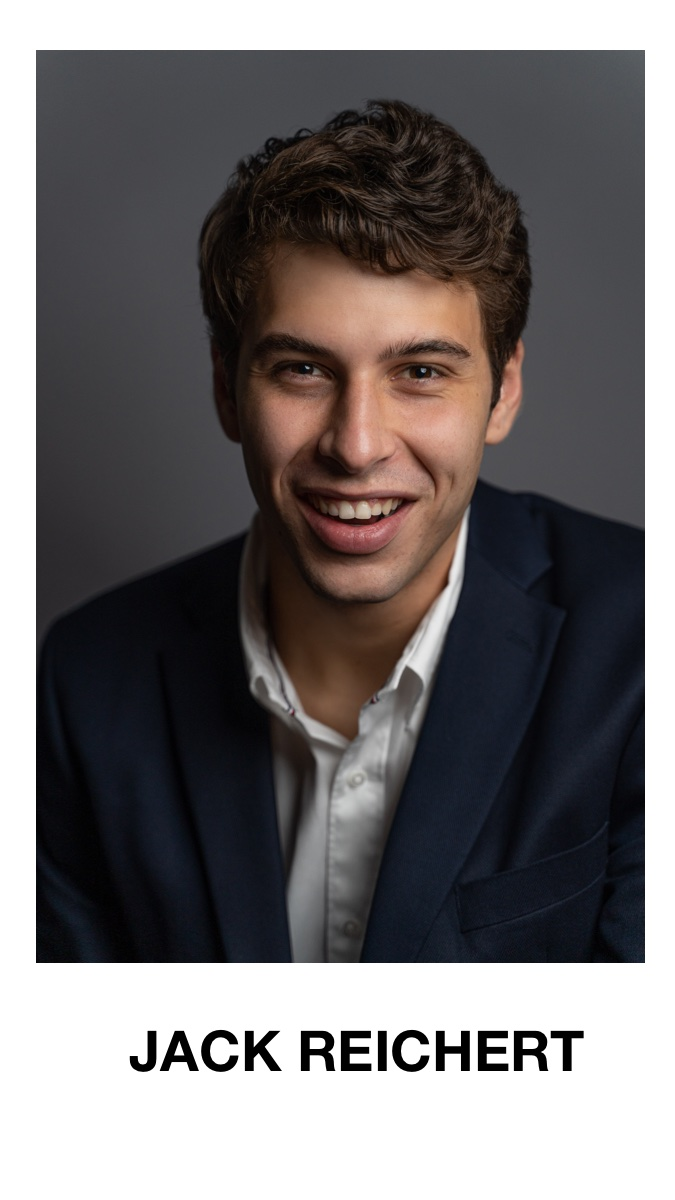
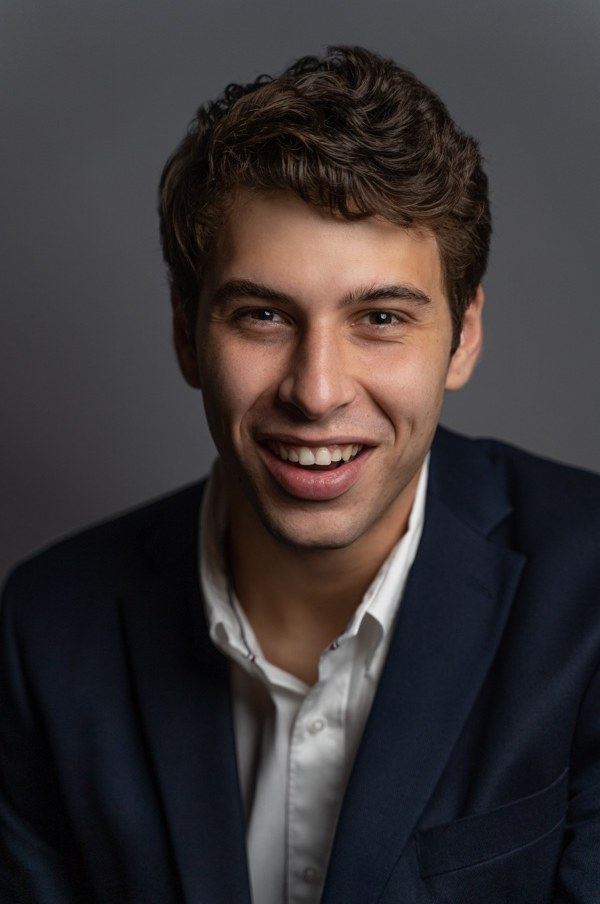
Add files via upload
new updates for pga

diff --git a/index.html b/index.html
@@ -1538,15 +1538,6 @@ footer.pp-footer {
   #brand-case div[style*="grid-template-columns:1fr 1.4fr"] div[style*="font-size:9px;letter-spacing:0.25em"] { font-size: 8px !important; letter-spacing: 0.18em !important; }
   #brand-case canvas { max-height: 260px !important; max-width: 100% !important; }
 
-  /* Good Good Proof Point: 3 boxes in ONE row */
-  #brand-case div[style*="border:1px solid rgba(184,150,62,0.2)"] { padding: 28px 18px !important; }
-  #brand-case div[style*="border:1px solid rgba(184,150,62,0.2)"] > div[style*="grid-template-columns:1fr 1fr;gap:60px"] { display: grid !important; grid-template-columns: 1fr !important; gap: 22px !important; }
-  #brand-case div[style*="border:1px solid rgba(184,150,62,0.2)"] > div[style*="grid-template-columns:1fr 1fr;gap:60px"] > div:nth-child(2) { display: grid !important; grid-template-columns: 1fr 1fr 1fr !important; gap: 6px !important; flex-direction: row !important; }
-  #brand-case div[style*="border:1px solid rgba(184,150,62,0.2)"] > div[style*="grid-template-columns:1fr 1fr;gap:60px"] > div:nth-child(2) > div { padding: 14px 8px !important; }
-  #brand-case div[style*="border:1px solid rgba(184,150,62,0.2)"] > div[style*="grid-template-columns:1fr 1fr;gap:60px"] > div:nth-child(2) > div > div[style*="font-size:36px"] { font-size: 19px !important; }
-  #brand-case div[style*="border:1px solid rgba(184,150,62,0.2)"] > div[style*="grid-template-columns:1fr 1fr;gap:60px"] > div:nth-child(2) > div > div[style*="letter-spacing:0.2em"] { font-size: 7px !important; letter-spacing: 0.04em !important; margin-top: 4px !important; line-height: 1.3 !important; }
-  #brand-case div[style*="border:1px solid rgba(184,150,62,0.2)"] h3 { font-size: 20px !important; margin-bottom: 12px !important; }
-  #brand-case div[style*="border:1px solid rgba(184,150,62,0.2)"] p { font-size: 13.5px !important; line-height: 1.55 !important; }
 
   /* === SCROLL-STUCK PREVENTION ===
      Ensure vertical page scroll always works, even over charts/canvases/carousels.
@@ -2061,9 +2052,9 @@ footer.pp-footer {
         <div class="ep-num">EP 01</div>
         <div>
           <div class="ep-group">The Karens</div>
-          <div class="ep-title">The Manny</div>
+          <div class="ep-title">Horse Girl</div>
           <div class="ep-meta"><span>Ext. Hole 7, Day</span><span>Runtime 0:45</span><span>Script Locked</span></div>
-          <div class="ep-summary">The Karens discuss their problems with their Au Pairs, and decide what they really deserve is a handsome man nanny to spice up their lives.</div>
+          <div class="ep-summary">The Karens discuss the thrill of doing ketamine therapy with their horses and how it can spice up their lives and their golf game.</div>
         </div>
         <div><span class="ep-pill done">Script Complete</span></div>
       </div>
@@ -2085,7 +2076,7 @@ footer.pp-footer {
           <div class="ep-group">The Chads</div>
           <div class="ep-title">Pilk</div>
           <div class="ep-meta"><span>Ext. Cart Path, Midday</span><span>Runtime 0:50</span><span>Script Locked</span></div>
-          <div class="ep-summary">The Chads discuss their favorite things until one Chad evangelizes his new obsession: Pilk, a Pepsi and milk mixture aged in a plastic bottle left in the sun.</div>
+          <div class="ep-summary">The Chads have invented a new protein-packed sports drink: Pilk, a Pepsi and milk mixture aged in a plastic bottle left in the sun. Everyone has to give it a try.</div>
         </div>
         <div><span class="ep-pill done">Script Complete</span></div>
       </div>
@@ -2096,7 +2087,7 @@ footer.pp-footer {
           <div class="ep-group">The Passenger Princesses</div>
           <div class="ep-title">Ozempic</div>
           <div class="ep-meta"><span>Ext. Back Nine, Golden Hour</span><span>Runtime 0:55</span><span>Script Locked</span></div>
-          <div class="ep-summary">The Passenger Princesses condemn the use of GLP-1s while systematically body-shaming every celebrity they can think of. A mysterious smell surfaces on the back nine. They blame the caddy. The camera reveals otherwise.</div>
+          <div class="ep-summary">The Passenger Princesses bemoan that &ldquo;normal people&rdquo; are taking away their skinny valor by using GLP-1s. Now they are forced to participate in extreme beauty fads with unfortunate side effects they can&rsquo;t own up to.</div>
         </div>
         <div><span class="ep-pill done">Script Complete</span></div>
       </div>
@@ -2162,11 +2153,11 @@ footer.pp-footer {
         <div class="cast-pillar-list">
           <div class="cast-pillar-list-label">Shortlist</div>
           <ul class="cast-names">
-            <li><a href="https://www.instagram.com/brysondechambeau/" target="_blank" rel="noopener"><span class="cname">Bryson DeChambeau</span><span class="handle">@brysondechambeau</span></a></li>
+            <li><a href="https://www.instagram.com/minwoo27lee/" target="_blank" rel="noopener"><span class="cname">Min Woo Lee</span><span class="handle">@minwoo27lee</span></a></li>
             <li><a href="https://www.instagram.com/rorymcilroy/" target="_blank" rel="noopener"><span class="cname">Rory McIlroy</span><span class="handle">@rorymcilroy</span></a></li>
             <li><a href="https://www.instagram.com/rickiefowler/" target="_blank" rel="noopener"><span class="cname">Rickie Fowler</span><span class="handle">@rickiefowler</span></a></li>
             <li><a href="https://www.instagram.com/justinthomas34/" target="_blank" rel="noopener"><span class="cname">Justin Thomas</span><span class="handle">@justinthomas34</span></a></li>
-            <li><a href="https://www.instagram.com/philmickelson/" target="_blank" rel="noopener"><span class="cname">Phil Mickelson</span><span class="handle">@philmickelson</span></a></li>
+            <li><a href="https://www.instagram.com/scottie.scheffler/" target="_blank" rel="noopener"><span class="cname">Scottie Scheffler</span><span class="handle">@scottie.scheffler</span></a></li>
             <li><a href="https://www.instagram.com/_paige.renee/" target="_blank" rel="noopener"><span class="cname">Paige Spiranac</span><span class="handle">@_paige.renee</span></a></li>
           </ul>
         </div>
@@ -2197,7 +2188,7 @@ footer.pp-footer {
       </div>
       <div style="background:var(--dark);padding:48px 36px;">
         <div style="font-family:'Playfair Display',serif;font-size:52px;font-weight:900;color:var(--gold-light);line-height:1;">800M+</div>
-        <div style="font-family:'DM Mono',monospace;font-size:9px;letter-spacing:0.2em;text-transform:uppercase;color:rgba(245,240,232,0.45);margin-top:10px;">Global golf viewership (PGA + LIV)</div>
+        <div style="font-family:'DM Mono',monospace;font-size:9px;letter-spacing:0.2em;text-transform:uppercase;color:rgba(245,240,232,0.45);margin-top:10px;">Global golf viewership</div>
         <div style="font-size:13px;color:rgba(245,240,232,0.5);margin-top:8px;font-style:italic;">And rising year over year.</div>
       </div>
       <div style="background:var(--dark);padding:48px 36px;">
@@ -2279,32 +2270,6 @@ footer.pp-footer {
       </div>
     </div>
 
-    <!-- GOOD GOOD PROOF POINT -->
-    <div class="reveal" style="background:rgba(184,150,62,0.08);border:1px solid rgba(184,150,62,0.2);padding:52px 48px;margin-top:2px;">
-      <div style="display:grid;grid-template-columns:1fr 1fr;gap:60px;align-items:center;">
-        <div>
-          <div style="font-family:'DM Mono',monospace;font-size:9px;letter-spacing:0.3em;text-transform:uppercase;color:var(--gold);margin-bottom:16px;">The Proof of Concept</div>
-          <h3 style="font-family:'Playfair Display',serif;font-size:32px;font-weight:700;color:var(--cream);margin-bottom:20px;">Good Good Golf Proved the Model.</h3>
-          <p style="font-size:17px;line-height:1.8;color:rgba(245,240,232,0.75);">Good Good started as a YouTube golf channel in 2020. By 2025 they had raised $45 million led by Peyton Manning's Omaha Productions and are now title-sponsoring a PGA Tour event, a deal worth an estimated $12-15 million. What they proved: digital-first golf content is a serious business, not a hobby.</p>
-          <p style="font-size:17px;line-height:1.8;color:rgba(245,240,232,0.75);margin-top:16px;">Pebble Pines operates in a lane Good Good does not touch. They are sports performance and community. We are satire and character. The audience overlaps. The competition does not.</p>
-        </div>
-        <div style="display:flex;flex-direction:column;gap:20px;">
-          <div style="background:rgba(245,240,232,0.05);padding:28px 32px;border-left:3px solid var(--gold);">
-            <div style="font-family:'Playfair Display',serif;font-size:36px;font-weight:900;color:var(--gold-light);">$45M</div>
-            <div style="font-family:'DM Mono',monospace;font-size:9px;letter-spacing:0.2em;text-transform:uppercase;color:rgba(245,240,232,0.5);margin-top:6px;">Funding raised by Good Good Golf (2025)</div>
-          </div>
-          <div style="background:rgba(245,240,232,0.05);padding:28px 32px;border-left:3px solid var(--gold);">
-            <div style="font-family:'Playfair Display',serif;font-size:36px;font-weight:900;color:var(--gold-light);">1.75M+</div>
-            <div style="font-family:'DM Mono',monospace;font-size:9px;letter-spacing:0.2em;text-transform:uppercase;color:rgba(245,240,232,0.5);margin-top:6px;">YouTube subscribers across their channels</div>
-          </div>
-          <div style="background:rgba(245,240,232,0.05);padding:28px 32px;border-left:3px solid var(--gold);">
-            <div style="font-family:'Playfair Display',serif;font-size:36px;font-weight:900;color:var(--gold-light);">$12-15M</div>
-            <div style="font-family:'DM Mono',monospace;font-size:9px;letter-spacing:0.2em;text-transform:uppercase;color:rgba(245,240,232,0.5);margin-top:6px;">Est. value of PGA Tour title sponsorship deal</div>
-          </div>
-        </div>
-      </div>
-    </div>
-
     <!-- BIBLIOGRAPHY · BUSINESS CASE -->
     <div class="reveal sources-block" data-carousel="sources" style="margin-top:64px;padding:40px 48px;border-top:1px solid rgba(245,240,232,0.12);">
       <div style="font-family:'DM Mono',monospace;font-size:9px;letter-spacing:0.3em;text-transform:uppercase;color:var(--gold);margin-bottom:20px;">Sources</div>
@@ -2315,8 +2280,6 @@ footer.pp-footer {
         <div><a href="https://www.emarketer.com/" target="_blank" rel="noopener noreferrer" class="source-link">04 · EMARKETER, <em>Creator Economy Revenue Mix 2026</em>. <span style="color:var(--gold-light);text-decoration:none;">emarketer.com</span></a></div>
         <div><a href="https://digiday.com/" target="_blank" rel="noopener noreferrer" class="source-link">05 · Digiday / Tubular Labs, <em>Creator vs. League Engagement Benchmarks 2024</em>. <span style="color:var(--gold-light);text-decoration:none;">digiday.com</span></a></div>
         <div><a href="https://www.sportspromedia.com/" target="_blank" rel="noopener noreferrer" class="source-link">06 · SportsPro / IEG, <em>Golf Sponsorship Market Sizing 2025</em>. <span style="color:var(--gold-light);text-decoration:none;">sportspromedia.com</span></a></div>
-        <div><a href="https://www.sportsbusinessjournal.com/" target="_blank" rel="noopener noreferrer" class="source-link">07 · Sports Business Journal, <em>Good Good Golf Funding Round</em>, July 2025. <span style="color:var(--gold-light);text-decoration:none;">sportsbusinessjournal.com</span></a></div>
-        <div><a href="https://golfweek.usatoday.com/" target="_blank" rel="noopener noreferrer" class="source-link">08 · Golfweek, <em>Good Good × Omaha Productions PGA Tour Title Sponsorship</em>, 2025. <span style="color:var(--gold-light);text-decoration:none;">golfweek.usatoday.com</span></a></div>
       </div>
       <button class="carousel-arrow carousel-prev sources-arrow" data-dir="prev" aria-label="Previous source"><svg viewBox="0 0 10 14" xmlns="http://www.w3.org/2000/svg" aria-hidden="true"><polyline points="7.5,2 2.5,7 7.5,12"/></svg></button>
       <button class="carousel-arrow carousel-next sources-arrow" data-dir="next" aria-label="Next source"><svg viewBox="0 0 10 14" xmlns="http://www.w3.org/2000/svg" aria-hidden="true"><polyline points="2.5,2 7.5,7 2.5,12"/></svg></button>
@@ -2417,7 +2380,7 @@ new Chart(eCtx, {
         borderRadius: 2,
       },
       {
-        label: 'Good Good Golf (Creator)',
+        label: 'Leading Golf Creator Channel',
         data: [545, 717],
         backgroundColor: '#B8963E',
         borderColor: '#B8963E',
@@ -2503,17 +2466,9 @@ new Chart(eCtx, {
         <div class="brand-name" style="margin-bottom:0;">Puma / Rickie Fowler</div>
       </div><div class="brand-int">Caddy fits as contrast to the Boomers' old-money wardrobes. Style credibility.</div></div>
         <div class="brand-card"><div style="display:flex;align-items:center;gap:12px;margin-bottom:10px;">
-        <img src="https://logo.clearbit.com/goodgoodgolf.com" style="width:28px;height:28px;object-fit:contain;border-radius:4px;" onerror="this.style.display='none'">
-        <div class="brand-name" style="margin-bottom:0;">Good Good</div>
-      </div><div class="brand-int">Golf's most culturally fluent brand. Cross-promo and collab potential.</div></div>
-        <div class="brand-card"><div style="display:flex;align-items:center;gap:12px;margin-bottom:10px;">
         <img src="https://logo.clearbit.com/barstoolsports.com" style="width:28px;height:28px;object-fit:contain;border-radius:4px;" onerror="this.style.display='none'">
         <div class="brand-name" style="margin-bottom:0;">Barstool: Foreplay</div>
       </div><div class="brand-int">Distribution and audience crossover. Clip licensing or co-produced episodes.</div></div>
-        <div class="brand-card"><div style="display:flex;align-items:center;gap:12px;margin-bottom:10px;">
-        <img src="https://logo.clearbit.com/livgolf.com" style="width:28px;height:28px;object-fit:contain;border-radius:4px;" onerror="this.style.display='none'">
-        <div class="brand-name" style="margin-bottom:0;">LIV Golf</div>
-      </div><div class="brand-int">Bigger purses, louder personalities, hungry for cultural relevance. A natural co-conspirator for satire that lives where the game is loudest.</div></div>
       </div>
     </div>
     <div class="reveal">
@@ -2572,18 +2527,19 @@ new Chart(eCtx, {
   <div class="container">
     <div class="reveal">
       <div style="font-family:'DM Mono',monospace;font-size:9px;letter-spacing:0.35em;text-transform:uppercase;color:var(--gold);margin-bottom:16px;">Who's Making It</div>
-      <h2 style="font-family:'Playfair Display',serif;font-size:clamp(36px,4vw,56px);font-weight:700;line-height:1.1;margin-bottom:80px;color:var(--dark);">Who We Are</h2>
+      <h2 style="font-family:'Playfair Display',serif;font-size:clamp(36px,4vw,56px);font-weight:700;line-height:1.1;margin-bottom:48px;color:var(--dark);">Who We Are</h2>
     </div>
+    <div class="reveal team-group-label" style="font-family:'DM Mono',monospace;font-size:10px;letter-spacing:0.3em;text-transform:uppercase;color:var(--gold);margin:0 0 24px;padding-bottom:12px;border-bottom:1px solid var(--rule);">Producers</div>
     <div class="reveal" style="display:grid;grid-template-columns:repeat(4,1fr);gap:32px;">
 
       <div style="display:flex;flex-direction:column;">
         <div style="width:100%;aspect-ratio:1/1;border:1px solid var(--rule);overflow:hidden;">
-          <img src="images/jacob.jpg" alt="Jacob Wahba" style="width:100%;height:100%;object-fit:cover;object-position:center 12%;">
+          <img src="images/jacob.jpg" alt="Jacob Wahba" style="width:100%;height:100%;object-fit:cover;object-position:center 0%;">
         </div>
         <div style="padding:24px 0 0;">
           <div style="font-family:'Playfair Display',serif;font-size:22px;font-weight:700;color:var(--dark);margin-bottom:4px;">Jacob Wahba</div>
-          <div style="font-family:'DM Mono',monospace;font-size:9px;letter-spacing:0.2em;text-transform:uppercase;color:var(--gold);">Director · Producer</div>
-          <div style="font-size:13px;line-height:1.6;color:var(--muted);margin-top:14px;padding-top:14px;border-top:1px solid var(--rule);">NYC-based director and producer. Credits: Dior, Nike, Brooks Brothers, GEICO, <em>Only Murders in the Building</em>, Broadway.</div>
+          <div style="font-family:'DM Mono',monospace;font-size:9px;letter-spacing:0.2em;text-transform:uppercase;color:var(--gold);">Co-Creator · Director · Producer</div>
+          <div style="font-size:13px;line-height:1.6;color:var(--muted);margin-top:14px;padding-top:14px;border-top:1px solid var(--rule);">NYC-based director and producer working across commercials, television, and stage. Credits include campaigns for Dior, Nike, Brooks Brothers, and GEICO, plus <em>Only Murders in the Building</em> and Broadway.</div>
         </div>
       </div>
 
@@ -2593,19 +2549,43 @@ new Chart(eCtx, {
         </div>
         <div style="padding:24px 0 0;">
           <div style="font-family:'Playfair Display',serif;font-size:22px;font-weight:700;color:var(--dark);margin-bottom:4px;">Frankie Seratch</div>
-          <div style="font-family:'DM Mono',monospace;font-size:9px;letter-spacing:0.2em;text-transform:uppercase;color:var(--gold);">Producer · Creator</div>
-          <div style="font-size:13px;line-height:1.6;color:var(--muted);margin-top:14px;padding-top:14px;border-top:1px solid var(--rule);">Producer and creator. Multi-hyphenate. Tribeca feature, 2026.</div>
+          <div style="font-family:'DM Mono',monospace;font-size:9px;letter-spacing:0.2em;text-transform:uppercase;color:var(--gold);">Co-Creator · Producer</div>
+          <div style="font-size:13px;line-height:1.6;color:var(--muted);margin-top:14px;padding-top:14px;border-top:1px solid var(--rule);">New York-based producer and actor. Co-founder of IP Bay, bringing Japanese IP to Western film and television. Lead in <em>Recluse</em> (dir. Henry Chaisson), world premiere at Tribeca Film Festival 2026.</div>
         </div>
       </div>
 
       <div style="display:flex;flex-direction:column;">
         <div style="width:100%;aspect-ratio:1/1;border:1px solid var(--rule);overflow:hidden;">
-          <img src="images/jack.jpg" alt="Jack Reichert" style="width:100%;height:100%;object-fit:cover;object-position:center 20%;">
+          <img src="images/sidney.jpg" alt="Sidney Chen" style="width:100%;height:100%;object-fit:cover;object-position:center 15%;">
+        </div>
+        <div style="padding:24px 0 0;">
+          <div style="font-family:'Playfair Display',serif;font-size:22px;font-weight:700;color:var(--dark);margin-bottom:4px;">Sidney Chen</div>
+          <div style="font-family:'DM Mono',monospace;font-size:9px;letter-spacing:0.2em;text-transform:uppercase;color:var(--gold);">Producer</div>
+        </div>
+      </div>
+
+      <div style="display:flex;flex-direction:column;">
+        <div style="width:100%;aspect-ratio:1/1;border:1px solid var(--rule);overflow:hidden;">
+          <img src="images/rosie.jpg" alt="Rosie McDonald" style="width:100%;height:100%;object-fit:cover;object-position:center 20%;">
+        </div>
+        <div style="padding:24px 0 0;">
+          <div style="font-family:'Playfair Display',serif;font-size:22px;font-weight:700;color:var(--dark);margin-bottom:4px;">Rosie McDonald</div>
+          <div style="font-family:'DM Mono',monospace;font-size:9px;letter-spacing:0.2em;text-transform:uppercase;color:var(--gold);">Producer · Writer · Actor</div>
+        </div>
+      </div>
+
+    </div>
+    <div class="reveal team-group-label" style="font-family:'DM Mono',monospace;font-size:10px;letter-spacing:0.3em;text-transform:uppercase;color:var(--gold);margin:64px 0 24px;padding-bottom:12px;border-bottom:1px solid var(--rule);">Writers Room</div>
+    <div class="reveal" style="display:grid;grid-template-columns:repeat(4,1fr);gap:32px;">
+
+      <div style="display:flex;flex-direction:column;">
+        <div style="width:100%;aspect-ratio:1/1;border:1px solid var(--rule);overflow:hidden;">
+          <img src="images/jack.jpg" alt="Jack Reichert" style="width:100%;height:100%;object-fit:cover;object-position:center 30%;">
         </div>
         <div style="padding:24px 0 0;">
           <div style="font-family:'Playfair Display',serif;font-size:22px;font-weight:700;color:var(--dark);margin-bottom:4px;">Jack Reichert</div>
-          <div style="font-family:'DM Mono',monospace;font-size:9px;letter-spacing:0.2em;text-transform:uppercase;color:var(--gold);">Comedian · Writer</div>
-          <div style="font-size:13px;line-height:1.6;color:var(--muted);margin-top:14px;padding-top:14px;border-top:1px solid var(--rule);">Comedian. Short-form writer and performer.</div>
+          <div style="font-family:'DM Mono',monospace;font-size:9px;letter-spacing:0.2em;text-transform:uppercase;color:var(--gold);">Writer</div>
+          <div style="font-size:13px;line-height:1.6;color:var(--muted);margin-top:14px;padding-top:14px;border-top:1px solid var(--rule);">Comedian, short-form writer, and performer.</div>
         </div>
       </div>
 
@@ -2615,8 +2595,30 @@ new Chart(eCtx, {
         </div>
         <div style="padding:24px 0 0;">
           <div style="font-family:'Playfair Display',serif;font-size:22px;font-weight:700;color:var(--dark);margin-bottom:4px;">Evan Frolov</div>
-          <div style="font-family:'DM Mono',monospace;font-size:9px;letter-spacing:0.2em;text-transform:uppercase;color:var(--gold);">Cinematographer · Creator</div>
-          <div style="font-size:13px;line-height:1.6;color:var(--muted);margin-top:14px;padding-top:14px;border-top:1px solid var(--rule);">NYC-based cinematographer and content creator. Cinematic storytelling across people, culture, and the internet.</div>
+          <div style="font-family:'DM Mono',monospace;font-size:9px;letter-spacing:0.2em;text-transform:uppercase;color:var(--gold);">Writer</div>
+          <div style="font-size:13px;line-height:1.6;color:var(--muted);margin-top:14px;padding-top:14px;border-top:1px solid var(--rule);">NYC-based writer, cinematographer, and content creator. Cinematic storytelling across people, culture, and the internet.</div>
+        </div>
+      </div>
+
+      <div style="display:flex;flex-direction:column;">
+        <div style="width:100%;aspect-ratio:1/1;border:1px solid var(--rule);overflow:hidden;">
+          <img src="images/talia.jpg" alt="Talia Lichtstein" style="width:100%;height:100%;object-fit:cover;object-position:center 18%;">
+        </div>
+        <div style="padding:24px 0 0;">
+          <div style="font-family:'Playfair Display',serif;font-size:22px;font-weight:700;color:var(--dark);margin-bottom:4px;">Talia Lichtstein</div>
+          <div style="font-family:'DM Mono',monospace;font-size:9px;letter-spacing:0.2em;text-transform:uppercase;color:var(--gold);">Writer</div>
+          <div style="font-size:13px;line-height:1.6;color:var(--muted);margin-top:14px;padding-top:14px;border-top:1px solid var(--rule);">New York-based writer and internet personality with 1.4M+ followers across TikTok, Instagram, and her Betches Media podcast. Writes branded comedy series including Snapchat&rsquo;s <em>The Influence</em>, <em>The Ick</em>, and TikTok&rsquo;s <em>Just the Tips</em>, with brand work for Pepsi, Ciroc, and Mr. Peanut.</div>
+        </div>
+      </div>
+
+      <div style="display:flex;flex-direction:column;">
+        <div style="width:100%;aspect-ratio:1/1;border:1px solid var(--rule);overflow:hidden;">
+          <img src="images/patrick.jpg" alt="Patrick Daly" style="width:100%;height:100%;object-fit:cover;object-position:center 15%;">
+        </div>
+        <div style="padding:24px 0 0;">
+          <div style="font-family:'Playfair Display',serif;font-size:22px;font-weight:700;color:var(--dark);margin-bottom:4px;">Patrick Daly</div>
+          <div style="font-family:'DM Mono',monospace;font-size:9px;letter-spacing:0.2em;text-transform:uppercase;color:var(--gold);">Writer</div>
+          <div style="font-size:13px;line-height:1.6;color:var(--muted);margin-top:14px;padding-top:14px;border-top:1px solid var(--rule);">Award-winning playwright, screenwriter, and producer. Plays include <em>New Year</em> (staged reading, New York City Center) and <em>SHEP</em>, winner of the Edwin P. Miller Award. Co-producer of the upcoming feature <em>Movin&rsquo; On Up</em> (Grapevine Films), starring Wesley Taylor and Ben Ahlers.</div>
         </div>
       </div>
 
@@ -2626,7 +2628,7 @@ new Chart(eCtx, {
 
 <footer class="pp-footer">
   <div class="pp-footer-logo">Pebble Pines</div>
-  <div class="pp-footer-credits">A Series Treatment · Wahba · Reichert · Seratch · Frolov</div>
+  <div class="pp-footer-credits">A Series Treatment · Wahba · Seratch</div>
   <div class="pp-footer-aside">Overheard at Pebble Pines. Pretend you didn't.</div>
   <div class="pp-footer-stamp">Confidential · Not for Distribution · © 2026</div>
 </footer>
@@ -2746,10 +2748,6 @@ new Chart(eCtx, {
   }
 
 
-  /* Good good proof point */
-  div[style*="grid-template-columns:1fr 1fr;gap:60px;align-items:center"] {
-    display: block !important;
-  }
   
   /* Hero title on mobile */
   .hero-title { font-size: 60px !important; }
